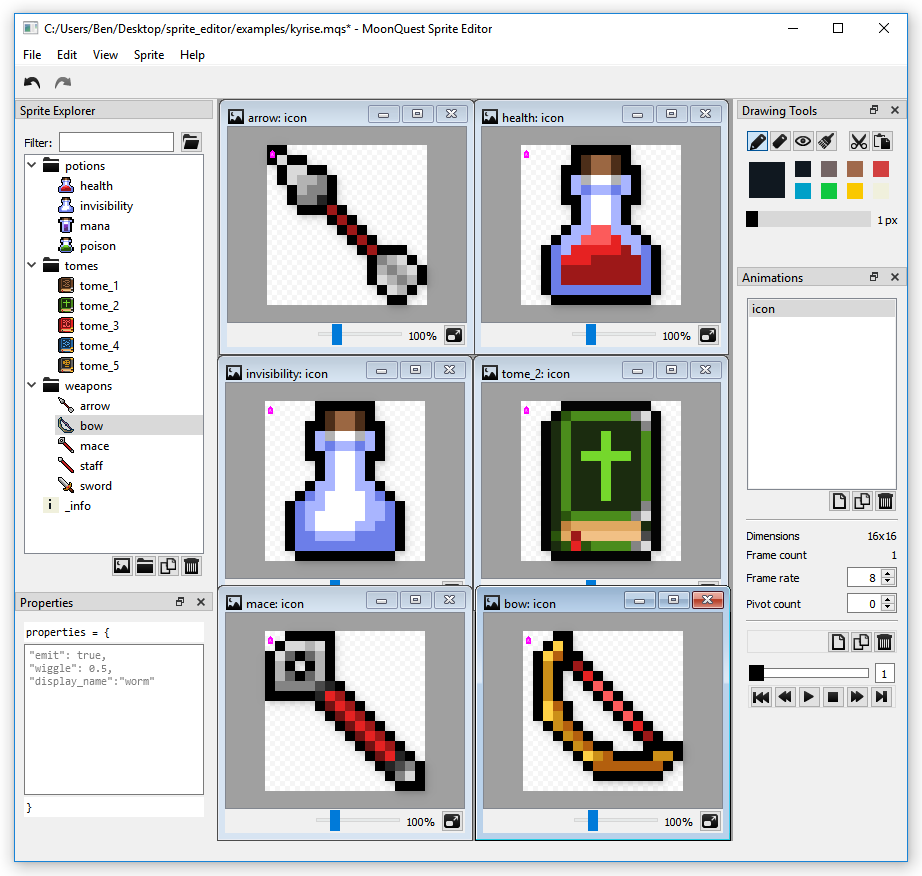
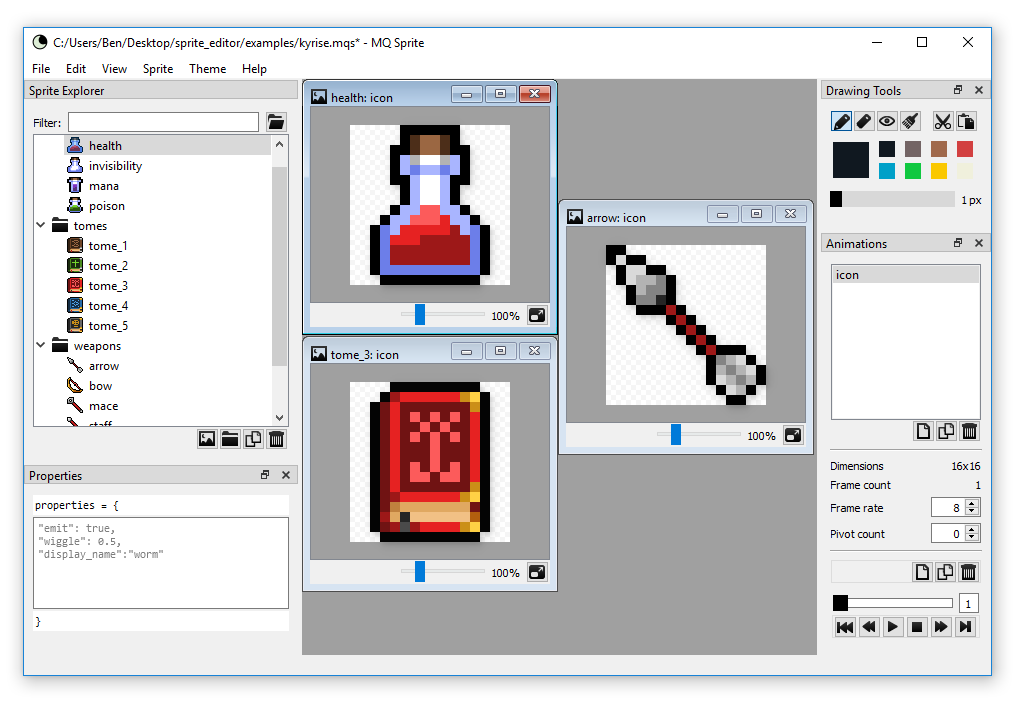
Updated name to MQ Sprite

diff --git a/src/mainwindow.cpp b/src/mainwindow.cpp
@@ -22,7 +22,7 @@ static MainWindow* sWindow = nullptr;
 
 
 static QString makeWindowTitle(QString filename = {}, bool saved = true) {
-	static const QString appName { "MoonQuest Sprite Editor" };
+	static const QString appName { "MQ Sprite" };
 	if (filename.isEmpty()) {
 		filename = "untitled project";
 		saved = false;
@@ -191,10 +191,12 @@ void MainWindow::createActions(){
     mRedoAction = mUndoStack->createRedoAction(this, tr("&Redo"));
     mRedoAction->setShortcuts(QKeySequence::Redo);
 	mRedoAction->setIcon(QIcon(":/icon/icons/gentleface/redo_icon&16.png"));
-	
-	findChild<QToolBar*>("toolBar")->addAction(mUndoAction);
-	findChild<QToolBar*>("toolBar")->addAction(mRedoAction);
-	
+		
+	// findChild<QToolBar*>("toolBar")->hide();
+	// findChild<QToolBar*>("toolBar")->addAction(mUndoAction);
+	// findChild<QToolBar*>("toolBar")->addAction(mRedoAction);
+	removeToolBar(findChild<QToolBar*>("toolBar"));
+
     mAboutAction = new QAction(tr("About"), this);
     mAboutAction->setShortcut(QKeySequence::HelpContents);
     connect(mAboutAction, SIGNAL(triggered()), this, SLOT(showAbout()));
@@ -899,7 +901,7 @@ void MainWindow::setOnionSkinningTransparency(int sliderValue){
 
 void MainWindow::showAbout(){
     QMessageBox::about(this, tr("About"), tr(
-		"<h1>MoonQuest Sprite Editor</h1>"
+		"<h1>MQ Sprite</h1>"
 "<p>Created by <a href=\"https://twitter.com/eigenbom\">Ben Porter</a> for <a href=\"https://playmoonquest.com\">MoonQuest</a>.</p>"
 "<p>Uses <a href=\"http://www.gentleface.com/free_icon_set.html\">Gentleface Icons</a> (CC BY-NC 3.0).</p>"
 "<p>Uses the \"Matriax8c\" palette by <a href=\"https://twitter.com/DavitMasia/\">Davit Masia</a>.</p>"
@@ -1021,7 +1023,7 @@ void MainWindow::loadProject(){
     QSettings settings;
     QString dir = settings.value("last_save_dir", QDir::currentPath()).toString();
 
-    QString fileName = QFileDialog::getOpenFileName(this, "Open...", dir, "MoonQuest Sprite File (*.mqs)");
+    QString fileName = QFileDialog::getOpenFileName(this, "Open...", dir, "MQ Sprite File (*.mqs)");
     if (fileName.isNull() || fileName.isEmpty() || !QFileInfo(fileName).isFile()){
         QMessageBox::warning(this, "Error during load", tr("Couldn't load ") + fileName);
     }
@@ -1071,7 +1073,7 @@ void MainWindow::saveProjectAs(){
     QSettings settings;
     QString dir = settings.value("last_save_dir", QDir::currentPath()).toString();
 
-    QString fileName = QFileDialog::getSaveFileName(this, "Save As...", dir, "MoonQuest Sprite File (*.mqs)");
+    QString fileName = QFileDialog::getSaveFileName(this, "Save As...", dir, "MQ Sprite File (*.mqs)");
     if (!fileName.isNull()){
         bool result = ProjectModel::Instance()->save(fileName);
         if (!result){

diff --git a/src/main.cpp b/src/main.cpp
@@ -60,7 +60,7 @@ int main(int argc, char *argv[])
     // QApplication::setStyle(QStyleFactory::create("fusion"));
     QCoreApplication::setOrganizationName("Wizard Mode");
     QCoreApplication::setOrganizationDomain("playmoonquest.com");
-    QCoreApplication::setApplicationName("MoonQuest Sprite Editor");
+    QCoreApplication::setApplicationName("MQ Sprite");
     QApplication a(argc, argv);
 	
 	auto paths = QCoreApplication::libraryPaths();
@@ -71,7 +71,7 @@ int main(int argc, char *argv[])
 	if (file.open(QIODevice::WriteOnly | QIODevice::Text)) {
 		sLogFile = &file;
 		QTextStream out(sLogFile);
-		out << "MoonQuest Sprite Editor Log\n";
+		out << "MQ Sprite Log\n";
 		out << "Library Paths: " << QCoreApplication::libraryPaths().join(", ") << "\n";
 
 		{

diff --git a/README.md b/README.md
@@ -1,7 +1,10 @@
 ## Synopsis
 
-The MoonQuest Sprite Editor is a tool for managing and editing game sprites. It was built during the development of [MoonQuest](https://www.playmoonquest.com) and has been recently updated with a cleaner UI, new features, and supporting scripts. 
-The editor is most suitable for games that use low resolution pixel art (in the order of 50x50 pixels in dimensions). It features:
+(https://github.com/eigenbom/moonquest-sprite-editor/raw/origin/master/icons/application_icon_64.png "MQ Sprite Icon")
+
+MQ Sprite is a tool for editing and managing game sprites.
+
+It was built during the development of [MoonQuest](https://www.playmoonquest.com) and has been recently updated with a cleaner UI, new features, and supporting scripts. The editor has been designed for games that use low resolution pixel art. It features:
 
 * A listing of all the sprites in the project with icon previews;
 * Folders for organising sprites into groups;
@@ -13,26 +16,22 @@ The editor is most suitable for games that use low resolution pixel art (in the 
 * Bundled Python scripts for manipulating the save files in your toolchain; and
 * A general properties window for adding arbitrary meta-data (in JSON format);
 
-![Screenshot](https://github.com/eigenbom/moonquest-sprite-editor/raw/origin/master/screenshots/screenshot.png "Screenshot")
+![Screenshot](https://github.com/eigenbom/moonquest-sprite-editor/raw/origin/master/screenshots/screenshot_kyrise.png "Screenshot")
 
 ## Download
 
-Windows builds are available [here](https://github.com/eigenbom/moonquest-sprite-editor/releases).
+You can download a Windows beta build from the [Releases](https://github.com/eigenbom/moonquest-sprite-editor/releases) page. 
 
-## Build Instructions
-
-The sprite editor requires Qt 5 to build and can be built directly from within QtCreator.
-
-## Basic Concepts
-
-COMING SOON
-
-![Screenshot](https://github.com/eigenbom/moonquest-sprite-editor/raw/origin/master/screenshots/screenshot_kyrise.png "Screenshot")
+For other platforms you will have to build it yourself. It required Qt5 and can be built directly from within QtCreator.
 
 ## Credits
+
+MQ Sprite was built by (Benjamin Porter)[https://twitter.com/eigenbom].
 
 [Gentleface Icons](http://www.gentleface.com/free_icon_set.html) are licensed under Creative Commons Attribution-NonCommercial.
 
 Sprites in example project: [Kyrise's Free 16x16 RPG Icon Pack | Graphics made by Kyrise](https://kyrise.itch.io/)
 
 Paint tool palette courtesy of Davit Masia.
+
+Icon adapted from Moon Phase Outline icon by [Dave Gandy](https://www.flaticon.com/authors/dave-gandy) from [flaticon.com](www.flaticon.com) is licensed by Creative Commons BY 3.0.
